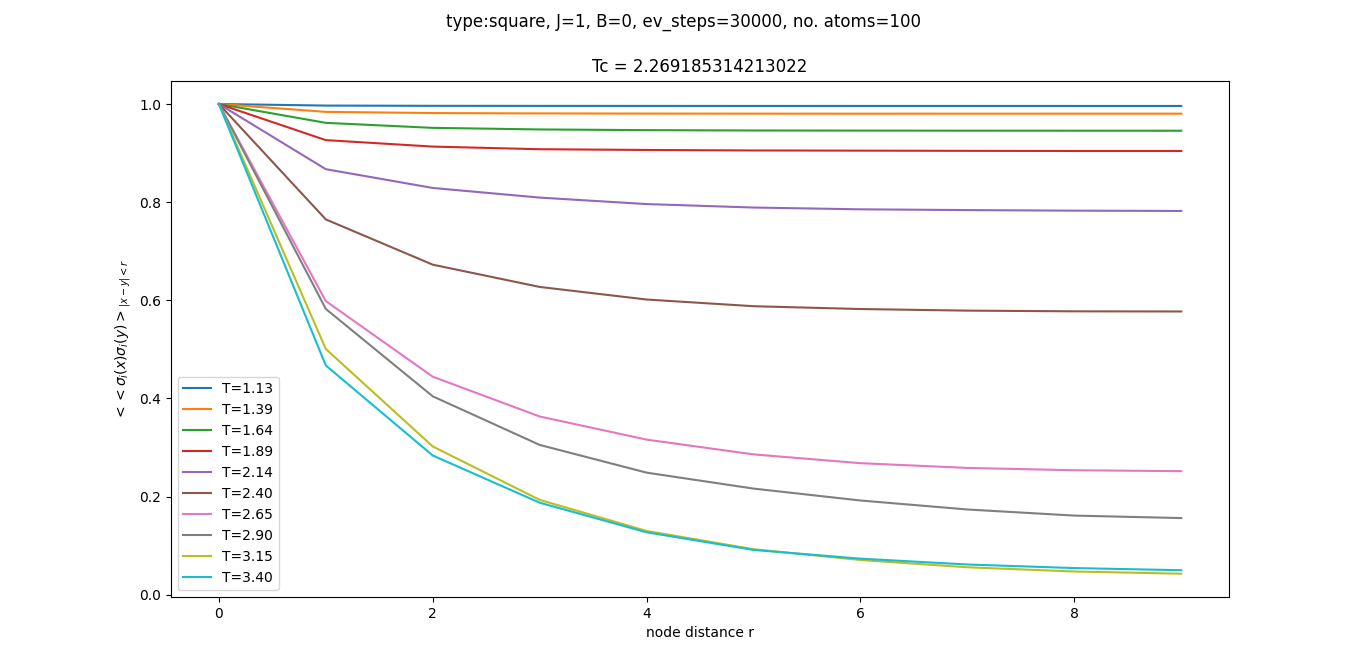
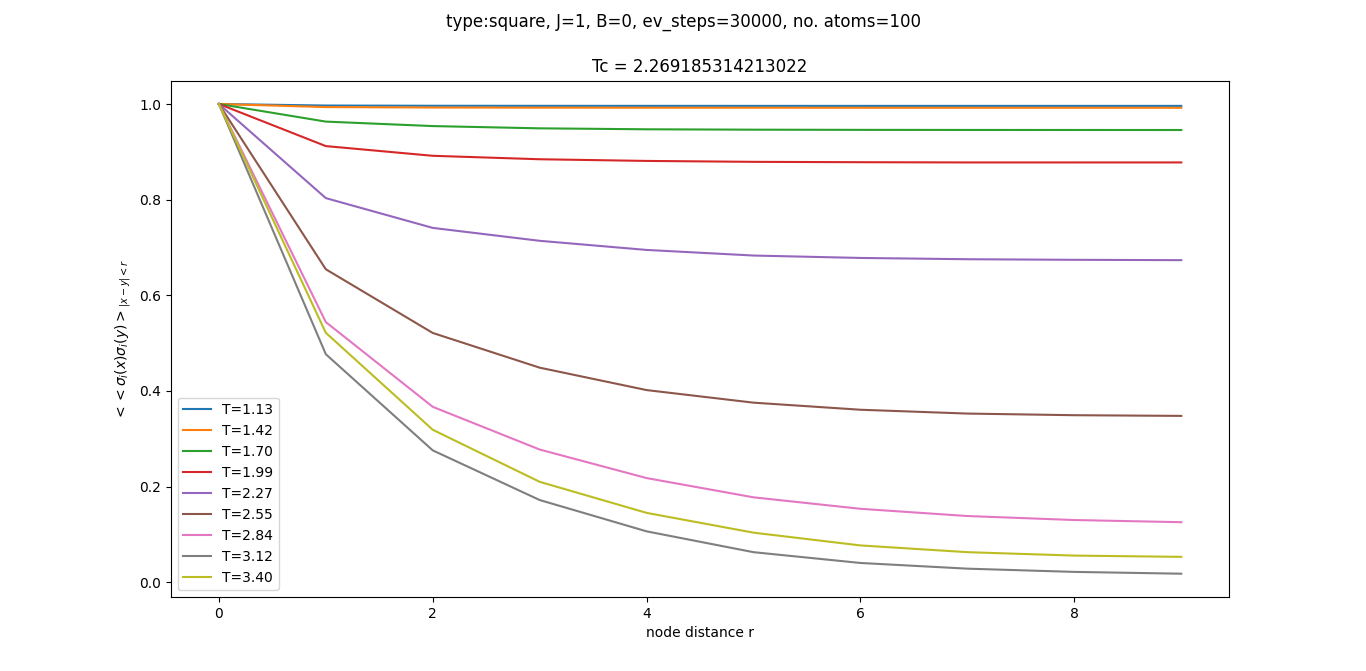
Final results

diff --git a/ising_network_double_plots_v3.py b/ising_network_double_plots_v3.py
@@ -6,27 +6,31 @@ from numba import jit
 
 time_start = time.perf_counter()
 
-lattice_type = 'hexagonal'  # write square, triangular or hexagonal
-J = 1  # spin coupling
-M = 18  # lattice size MxN
-N = 18
-steps = 15000  # number of timesteps of evolution per given temperature
-B_sample = 5  # number of samples between minimum and maximum values of B NEEDS TO BE ODD FOR SENSIBLE RESULTS
-T_sample = 5  # number of samples between minimum and maximum values of T
-eq_steps = 10000
-# Onsager critical temperature for square lattice
-Tc = (2*abs(J))/np.log(1+np.sqrt(2))
-Tc = (2*abs(J))/np.log(1+np.sqrt(2))  # Critical temperature
-# Critical temperature of hexagonal lattic  at J = 1
-Tc_h = 2/np.log(2 + np.sqrt(3))
-Tc_t = 4 / np.log(3)  # Critical temperature of triangular lattice at J = 1
+lattice_type = 'square'     # write square, triangular or hexagonal
+J = 1                       # spin coupling
+M = 10                      # lattice size MxN
+N = 10
+steps = 30000       # number of timesteps of evolution per given temperature
+B_sample = 20       # number of samples between minimum and maximum values of B NEEDS TO BE ODD FOR SENSIBLE RESULTS
+T_sample = 20       # number of samples between minimum and maximum values of T
+steps_to_eq = 25000
+nbstrap = 1000
 
+if lattice_type == 'square':
+    Tc = (2*abs(J))/np.log(1+np.sqrt(2))  # Critical temperature
+    T_min = 0.5*Tc  # min temperature to explore
+    T_max = 1.5*Tc  # max temperature to explore
+elif lattice_type == 'triangular:':
+    Tc = 2/np.log(2 + np.sqrt(3))     # Critical temperature of hexagonal lattic  at J = 1
+    T_min = 0.5*Tc  # min temperature to explore
+    T_max = 1.5*Tc  # max temperature to explore
+elif lattice_type == 'hexagonal':
+    Tc = 4 / np.log(3)  # Critical temperature of triangular lattice at J = 1
+    T_min = 0.5*Tc  # min temperature to explore
+    T_max = 1.5*Tc  # max temperature to explore
 
-T_min = 0.5*Tc_h  # min temperature to explore
-T_max = 2*Tc_h  # max temperature to explore
-
-B_min = 0.5  # min magnetic field to explore
-B_max = 2.0  # max magnetic field to explore
+B_min = 0  # min magnetic field to explore
+B_max = 1.5  # max magnetic field to explore
 
 T = np.linspace(T_min, T_max, T_sample)  # temperature range to explore
 
@@ -37,8 +41,6 @@ beta = ones/T
 B = np.linspace(B_min, B_max, B_sample)
 
 # function creates lattice
-
-
 def lattice(M, N):
     if lattice_type == 'hexagonal':
         lattice = nx.hexagonal_lattice_graph(
@@ -51,8 +53,6 @@ def lattice(M, N):
     return lattice
 
 # function that counts numer of nodes
-
-
 def num(G):
     n = 0
     for node in G:
@@ -60,8 +60,6 @@ def num(G):
     return n
 
 # function to step lattice in time
-
-
 @jit(nopython=True)
 def step(A_dense, beta, B, num):
 
@@ -103,11 +101,8 @@ def step(A_dense, beta, B, num):
                 nnsum = np.sum(A, axis=1)
 
                 # What decides the flip is
-                dE = 2*J*np.multiply(nnsum, spinlist) + \
-                    2*B[i]*spinlist  # change in energy
-
-                E = -J*sum(np.multiply(nnsum, spinlist)) - \
-                    B[i]*sum(spinlist)  # total energy
+                dE = 2*J*np.multiply(nnsum, spinlist) + 2*B[i]*spinlist  # change in energy
+                E = -J*sum(np.multiply(nnsum, spinlist)) - B[i]*sum(spinlist)  # total energy
                 M = np.sum(spinlist)  # total magnetisation
 
                 # update spin configuration if energetically favourable or if thermal fluctuations contribute
@@ -118,12 +113,38 @@ def step(A_dense, beta, B, num):
                     spinlist[l] *= -1
 
                 E_time.append(E)
-                M_time.append(M)
+                M_time.append(abs(M))
+
+            def bootstrap(G):
+                G_bootstrap = []
+                for i in range(steps-steps_to_eq):
+                    alpha = int(np.random.uniform(0, steps-steps_to_eq))
+                    G_bootstrap.append(G[alpha])
+                return G_bootstrap
+
+            def bs_mean(G):                                             # MC avg of G
+                G_bs_mean = np.empty(steps-steps_to_eq)        
+                for n in range(steps-steps_to_eq):                                  # compute MC averages
+                    avg_G = 0
+                    for alpha in range(len(G)):
+                        avg_G += G[alpha][n]
+                    avg_G = avg_G/len(G)
+                    G_bs_mean[n] = avg_G
+                return G_bs_mean
+
+            bsM_time = np.empty((nbstrap, steps-steps_to_eq))
+            bsE_time = np.empty((nbstrap, steps-steps_to_eq))
+            for p in range(nbstrap):
+                g = bootstrap(E_time[steps_to_eq:])
+                f = bootstrap(M_time[steps_to_eq:])
+                bsE_time[p] = g
+                bsM_time[p] = f
+            bsE_time_avg = bs_mean(bsE_time)
+            bsM_time_avg = bs_mean(bsM_time)
 
             # store magnetisation values
-            M_beta_J[i, j] = mean(M_time[eq_steps:])
-            E_beta_J[i, j] = mean_square(
-                E_time[eq_steps:])/abs(J)  # store energy values
+            M_beta_J[i, j] = mean(bsM_time_avg)
+            E_beta_J[i, j] = mean(bsE_time_avg)/abs(J)
 
         print(i)
 
@@ -144,39 +165,33 @@ def main():
     # run program
     E_beta_J, M_beta_J = step(A_dense, beta, B, n)
 
-    time_elapsed = (time.perf_counter() - time_start)
-    print("checkpoint 1 %5.1f secs" % (time_elapsed))
-
     # store values as csv's
     # np.savetxt("E.csv", E_beta_J/n, delimiter=",")
     # np.savetxt("M.csv", M_beta_J/n, delimiter=",")
 
     # plot
-    ext = [T_min/Tc_h, T_max/Tc_h, B_min, B_max]
+    ext = [T_min/Tc, T_max/Tc, B_min, B_max]
 
     fig = plt.figure(figsize=(15, 15))
     ax1 = fig.add_subplot(2, 2, 1)
     ax2 = fig.add_subplot(2, 2, 2)
-
     fig.suptitle('{}, size {}x{}, J={}, ev_steps={}'.format(
         lattice_type, M, N, J, steps))
 
-    im1 = ax1.imshow(M_beta_J/n, cmap='coolwarm', origin='lower',
-                     extent=ext, aspect='auto', interpolation='spline36')
+    im1 = ax1.imshow(M_beta_J/n, cmap='coolwarm', origin='lower', extent=ext, aspect='auto', interpolation='spline36')
     ax1.set_title('M/site')
     fig.colorbar(im1, ax=ax1)
     ax1.set_ylabel('B')
     ax1.set_xlabel('T/Tc')
 
-    im2 = ax2.imshow(E_beta_J/n, cmap='Reds', origin='lower',
-                     extent=ext, aspect='auto', interpolation='spline36')
+    im2 = ax2.imshow(E_beta_J/n, cmap='Reds', origin='lower', extent=ext, aspect='auto', interpolation='spline36')
     ax2.set_title('(E/J)/site')
     fig.colorbar(im2, ax=ax2)
     ax2.set_ylabel('B')
     ax2.set_xlabel('T/Tc')
 
     time_elapsed = (time.perf_counter() - time_start)
-    print("checkpoint 2 %5.1f secs" % (time_elapsed))
+    print("checkpoint %5.1f secs" % (time_elapsed))
 
     plt.show()
 

diff --git a/sweep_on_p.py b/sweep_on_p.py
@@ -9,27 +9,17 @@ time_start = time.perf_counter()
 
 J = 1  # spin coupling constant
 B = 0  # external magnetic field
-M = 5  # lattice size MxN
-N = 5
-steps = 21000  # number of evolution steps per given temperature
+M = 10  # lattice size MxN
+N = 10
+steps = 30000  # number of evolution steps per given temperature
 steps_to_eq = 20000  # steps until equilibrium is reached
-repeat = 2  # number of trials per temperature to average over
+repeat = 10  # number of trials per temperature to average over
 nbstrap = 1000
-
-#original parameters
-#J = 1  # spin coupling constant
-#B = 0  # external magnetic field
-#M = 10  # lattice size MxN
-#N = 10
-#steps = 30000  # number of evolution steps per given temperature
-#steps_to_eq = 20000  # steps until equilibrium is reached
-#repeat = 10  # number of trials per temperature to average over
-#nbstrap = 1000
 
 lenth_p_sweep = np.arange(1/(N*M), 10/(N*M), 1/(M*N))
 print(lenth_p_sweep)
 
-T = np.linspace(0.5, 8, 30)
+T = np.linspace(0.5, 8, 50)
 ones = np.ones(len(T))
 beta = ones/(T)
 
@@ -176,13 +166,19 @@ def step(A_dense, beta, num):
 
         print(j)
 
-    return E_beta, M_beta, cv_beta, xi_beta, num
+    var_xi = variance(xi_beta)
+    var_Cv = variance(cv_beta)
+
+    return E_beta, M_beta, cv_beta, xi_beta, num, var_xi, var_Cv
 
 def main():
     cv_array = []
     xi_array = []
     m_array = []
     E_array = []
+
+    var_xi_in_p = []
+    var_cv_in_p = []
     for p in lenth_p_sweep:
         # create lattice
         G = lattice(M, N, p)
@@ -198,12 +194,20 @@ def main():
         A_dense = Adj.todense()
 
         # iterate steps and sweep trough beta
-        E_beta, M_beta, cv_beta, xi_beta, n = step(A_dense, beta, n)
+        E_beta, M_beta, cv_beta, xi_beta, n, var_xi, var_cv = step(A_dense, beta, n)
 
         E_array.append(E_beta)
         cv_array.append(cv_beta)
         xi_array.append(xi_beta)
         m_array.append(M_beta)
+
+        var_cv_in_p.append(var_cv)
+        var_xi_in_p.append(var_xi)
+
+    print(var_cv_in_p)
+    print(var_xi_in_p)
+    np.savetxt("var_cv_in_p.csv", var_cv_in_p, delimiter=",")
+    np.savetxt("var_xi_in_p.csv", var_xi_in_p, delimiter=",")
 
     critical = []
     for a in range(len(lenth_p_sweep)):
@@ -212,7 +216,7 @@ def main():
         critical.append(critical_temp)
 
     print(critical)
-    np.savetxt("psweep_Tc.csv", critical, delimiter=",")
+    np.savetxt("psweep_Tc_Cv.csv", critical, delimiter=",")
     np.savetxt("psweep_p.csv", lenth_p_sweep, delimiter=",")
 
     plt.scatter(lenth_p_sweep, critical)

diff --git a/correlation_lenght_v3.py b/correlation_lenght_v3.py
@@ -7,12 +7,12 @@ from numba import jit
 time_start = time.perf_counter()
 
 lattice_type = 'ER'              #write square, triangular or hexagonal
-p = 0.01
+p = 0.08
 
 J = 1                             #spin coupling constant
 B = 0                                #external magnetic field
-M = 10                               #lattice size MxN
-N = 10
+M = 20                               #lattice size MxN
+N = 20
 steps = 30000                         #number of evolution steps per given temperature
 max_r = 10
 repeat = 10
@@ -20,18 +20,18 @@ repeat = 10
 Tc = (2*abs(J))/np.log(1+np.sqrt(2))        #Critical temperature
 Tc_h = 2/np.log(2 + np.sqrt(3))             #Critical temperature of hexagonal lattic  at J = 1
 Tc_t = 4 / np.log(3)                       #Critical temperature of triangular lattice at J = 1
-Tc_ER = 78.5*p
+Tc_ER = 84.2*p                              #linear guess from p sweep
 
 if lattice_type == "square":
-    T = np.linspace(0.5*Tc, 1.5*Tc, 10) 
+    T = np.linspace(0.5*Tc, 1.5*Tc, 9) 
 elif lattice_type == "hexagonal":
-    T = np.linspace(0.5*Tc_h, 1.5*Tc_h, 10) 
+    T = np.linspace(0.5*Tc_h, 1.5*Tc_h, 9) 
     Tc = Tc_h
 elif lattice_type == "triangular":
-    T = np.linspace(0.5*Tc_t, 1.5*Tc_t, 10) 
+    T = np.linspace(0.5*Tc_t, 1.5*Tc_t, 9) 
     Tc = Tc_t
 elif lattice_type == "ER":
-    T = np.linspace(0.5*Tc_ER, 1.5*Tc_ER, 10) 
+    T = np.linspace(0.5*Tc_ER, 1.5*Tc_ER, 9) 
     Tc = Tc_ER
 else: print("Errore!")
 

diff --git a/sweep_on_p_fit.py b/sweep_on_p_fit.py
@@ -4,14 +4,18 @@ from matplotlib.patches import Rectangle
 import scipy as sp
 
 M=N=10
-Tc = np.loadtxt('p sweep plots/psweep_Tc.csv')
+Tc = np.loadtxt('p sweep plots/psweep_Tc_Cv.csv')
 p = np.loadtxt('p sweep plots/psweep_p.csv')
+var = np.loadtxt('p sweep plots/var_cv_in_p.csv')
+
+stdev = np.sqrt(var)
 
 line = sp.stats.linregress(p, Tc)
 slope = line[0]
 intercept = line[1]
 
 plt.scatter(p, Tc)
+#plt.errorbar(p, Tc, stdev, fmt='o')
 plt.plot(p, slope*p+intercept, label='fit')
 
 extra = Rectangle((0, 0), 1, 1, fc="w", fill=False, edgecolor='none', linewidth=0)
